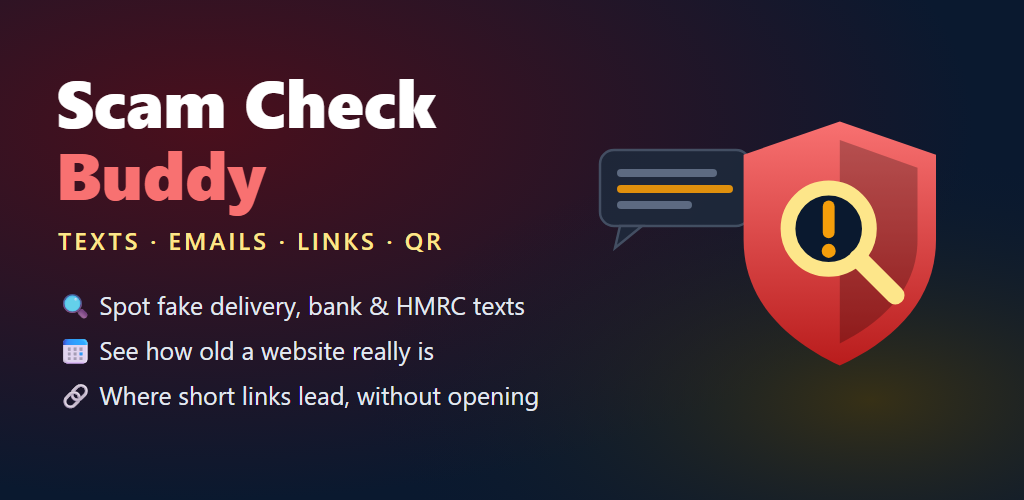
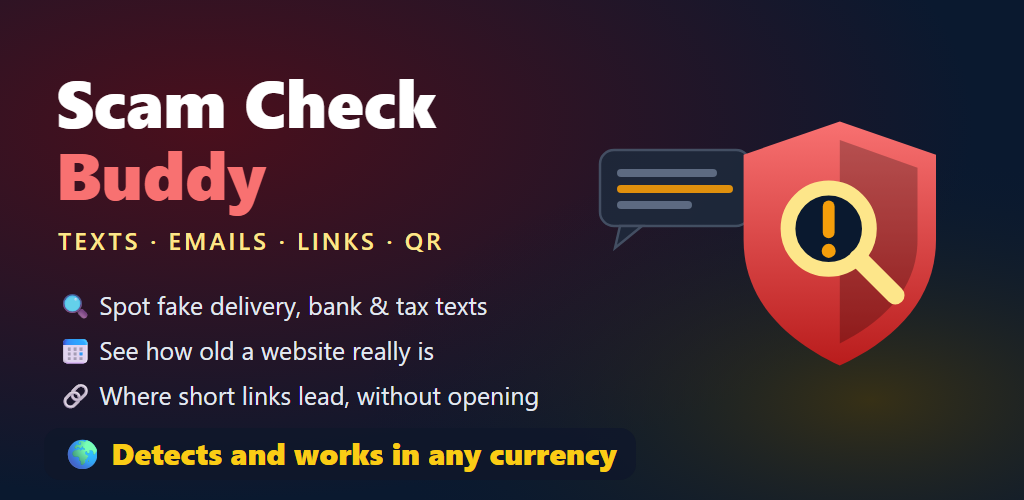
Scam Check Buddy 1.5 (Build 9): any currency + country packs, manual word for word, new pictures

Changed region(s): [[0.0625, 0.87, 0.625, 0.96], [0.375, 0.57, 0.5312, 0.63]]

diff --git a/scam-check-buddy/index.html b/scam-check-buddy/index.html
@@ -60,7 +60,7 @@
             <li>A message that names a company (for example Evri, HMRC or PayPal) but links somewhere else.</li>
             <li>Short links (bit.ly, tinyurl.com and others) that hide where they go.</li>
             <li>Tricks: special letters that look like normal ones, a bare number instead of a name, or a real company name before an @ that hides the real website.</li>
-            <li>Endings that are cheap to register and rarely used by UK companies (for example .top or .xyz). This is information, not proof.</li>
+            <li>Endings that are cheap to register and rarely used by real companies (for example .top or .xyz). This is information, not proof.</li>
         </ul>
         <p>In the message:</p>
         <ul>
@@ -68,6 +68,7 @@
             <li>Asking you to move money to a "safe" account, to pay with gift cards, to share a code or PIN, or to allow remote access.</li>
             <li>Asking you to call a number.</li>
         </ul>
+        <p>🌍 Any currency: fees and money requests are found in any currency, with a sign or a code, before or after the number (for example £1.99, €1,99, 1,99 €, $2.99, ₹25, Rs. 30, ¥300 or 1.99 USD), and phone numbers from any country.</p>
 
         <h3>Checking the links online</h3>
         <ul>
@@ -89,7 +90,8 @@
         </ul>
 
         <h3>Tips tab</h3>
-        <p>What to do if a message might be a scam (in the UK: forward scam texts to 7726, scam emails to report@phishing.gov.uk, and call 159 to reach your bank safely), and the most common scams in the UK with how to spot them.</p>
+        <p>What to do if a message might be a scam, the official ways to report it in your country, and the most common scams there with how to spot them.</p>
+        <p>🌍 Your country is found from your SIM card or the phone's settings and shown at the top of the Tips tab. Tap 🌍 Change country to pick another one. The UK, Ireland, the USA, Canada, Australia, New Zealand, Germany, France, Spain, Italy, the Netherlands and India each have their own couriers, tax office and reporting numbers; for any other country the Tips tab gives advice that is true everywhere, without local numbers. The check itself works the same in every country.</p>
 
         <h3>Pro</h3>
         <p>Pro is one payment for life, with no subscription. It adds:</p>
@@ -110,17 +112,19 @@
         </ul>
 
         <h3>About</h3>
-        <p>Scam Check Buddy v1.4 (Build 8)</p>
+        <p>Scam Check Buddy v1.5 (Build 9)</p>
         <p>Publisher: AppStack Studio</p>
 
-        <h3>🛡 WHAT TO DO (from the Tips tab)</h3>
+        <h3>🛡 WHAT TO DO — FOR YOUR COUNTRY (Tips tab)</h3>
+        <p>The Tips tab shows the advice and the official ways to report a scam for your country, found from your SIM card or the phone's settings (🌍 Change country to pick another). Full country versions: the UK, Ireland, the USA, Canada, Australia, New Zealand, Germany, France, Spain, Italy, the Netherlands and India; every other country gets advice that is true everywhere, without local numbers.</p>
+        <p>For example, in the UK:</p>
         <ul>
             <li>Don't tap the link, reply, call the number in it or pay.</li>
             <li>Contact the company using its own app, its website typed in yourself, or the number on your card or bill.</li>
+            <li>A call or message that says it's your bank: hang up and call 159 to reach your bank safely.</li>
             <li>Forward a scam text to 7726 (free on UK networks) to report it.</li>
             <li>Forward a scam email to report@phishing.gov.uk to report it.</li>
-            <li>A call or message that says it's your bank: hang up and call 159 to reach your bank safely.</li>
-            <li>If you've already paid or given details, call your bank straight away and report it to the police.</li>
+            <li>If you've lost money: call your bank straight away and report it to Report Fraud (reportfraud.police.uk or 0300 123 2040 in England, Wales and Northern Ireland) or to the police.</li>
         </ul>
 
         <h3>⚡ WHY SCAM CHECK BUDDY</h3>
@@ -129,6 +133,8 @@
             <tr><td>Is this website new?</td><td>Not shown</td><td><strong>The registration date from the official domain register</strong></td></tr>
             <tr><td>Where does this short link go?</td><td>Open it to find out</td><td><strong>Asks the short-link service only: the website itself is never opened</strong></td></tr>
             <tr><td>Does the link match the company?</td><td>A single "safe / unsafe" verdict</td><td><strong>Every warning sign listed, in plain words, and never "safe"</strong></td></tr>
+            <tr><td>Money in other currencies</td><td>Often only one currency</td><td><strong>Fees and money requests found in any currency (£, €, $, ₹, ¥ and the rest)</strong></td></tr>
+            <tr><td>Your country</td><td>Advice for one country</td><td><strong>Couriers, tax office and official reporting numbers for your country</strong></td></tr>
             <tr><td>Reading your messages</td><td>Some ask for SMS access</td><td><strong>No SMS access: only what you paste, share or select</strong></td></tr>
             <tr><td>Price</td><td>Often a subscription</td><td><strong>Free, Pro is one payment for life (no subscription)</strong></td></tr>
         </table>
@@ -136,20 +142,20 @@
         <h3>⚠ IMPORTANT DISCLAIMER</h3>
         <ul>
             <li>Scam Check Buddy lists warning signs. It can't prove that a message is genuine, and a message with no warning signs can still be a scam.</li>
-            <li>The company list covers the names scam messages use most in the UK; other names aren't recognised as lookalikes.</li>
+            <li>The company list covers the names scam messages use most in the UK and the other supported countries; other names aren't recognised as lookalikes.</li>
             <li>Scam Check Buddy is not affiliated with any company, bank or government body it mentions.</li>
         </ul>
     </div>
 
     <h2>App Screenshots Gallery</h2>
     <div class="screenshot-grid">
-        <div class="screenshot-card"><img src="scam-check-buddy-check.jpg" alt="Check tab"><p><strong>1. Check</strong><br>Paste or share a message: the warning signs appear straight away.</p></div>
-        <div class="screenshot-card"><img src="scam-check-buddy-online.jpg" alt="Online check"><p><strong>2. Online check</strong><br>The domain register's answer for the web address.</p></div>
-        <div class="screenshot-card"><img src="scam-check-buddy-shortlink.jpg" alt="Short link"><p><strong>3. Short links</strong><br>Where a short link leads, without opening the website.</p></div>
-        <div class="screenshot-card"><img src="scam-check-buddy-tips.jpg" alt="Tips tab"><p><strong>4. Tips</strong><br>What to do, and the most common UK scams.</p></div>
-        <div class="screenshot-card"><img src="scam-check-buddy-saved.jpg" alt="Saved checks"><p><strong>5. Saved checks (Pro)</strong><br>Every check kept, newest first.</p></div>
+        <div class="screenshot-card"><img src="scam-check-buddy-check.jpg" alt="Check tab with a euro fee message"><p><strong>1. Check</strong><br>A fake parcel fee in euros: the warning signs appear straight away, in any currency.</p></div>
+        <div class="screenshot-card"><img src="scam-check-buddy-online.jpg" alt="Fake web address"><p><strong>2. Fake addresses</strong><br>"dhl-zoll-paket.top" looks like DHL, but it isn't DHL's website.</p></div>
+        <div class="screenshot-card"><img src="scam-check-buddy-shortlink.jpg" alt="Change country"><p><strong>3. Your country</strong><br>Found from your SIM card; change it any time with 🌍 Change country.</p></div>
+        <div class="screenshot-card"><img src="scam-check-buddy-tips.jpg" alt="Tips for Germany"><p><strong>4. Tips for your country</strong><br>Germany: DHL, Hermes, the Finanzamt and the official ways to report a scam.</p></div>
+        <div class="screenshot-card"><img src="scam-check-buddy-saved.jpg" alt="Tips for the UK"><p><strong>5. What to do</strong><br>UK: 7726, report@phishing.gov.uk, 159 and Report Fraud.</p></div>
     </div>
-    <p style="font-size: 13px; color: #94A3B8;">Screenshots: real results on a Samsung Galaxy S20 for example messages typed in for the screenshots.</p>
+    <p style="font-size: 13px; color: #94A3B8;">Screenshots: real results on a Samsung Galaxy S24 for an example message shared to the app for the screenshots.</p>
 
     <div class="footer">
         &copy; 2026 AppStack Studio. All rights reserved. | Support: <a href="mailto:appstack1966@gmail.com">appstack1966@gmail.com</a>
